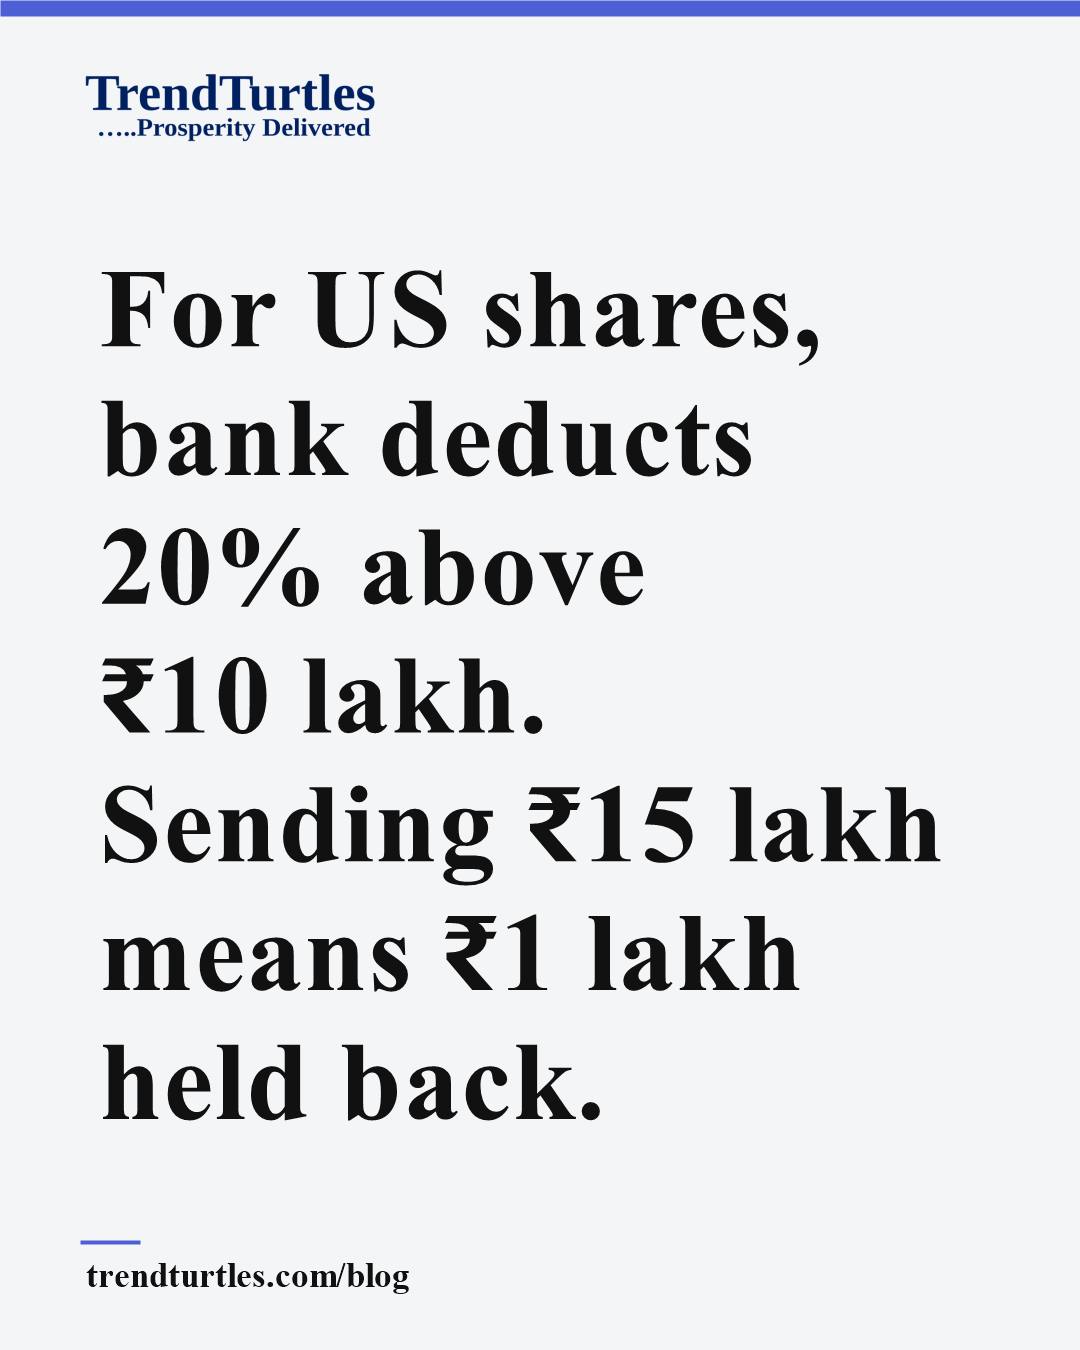
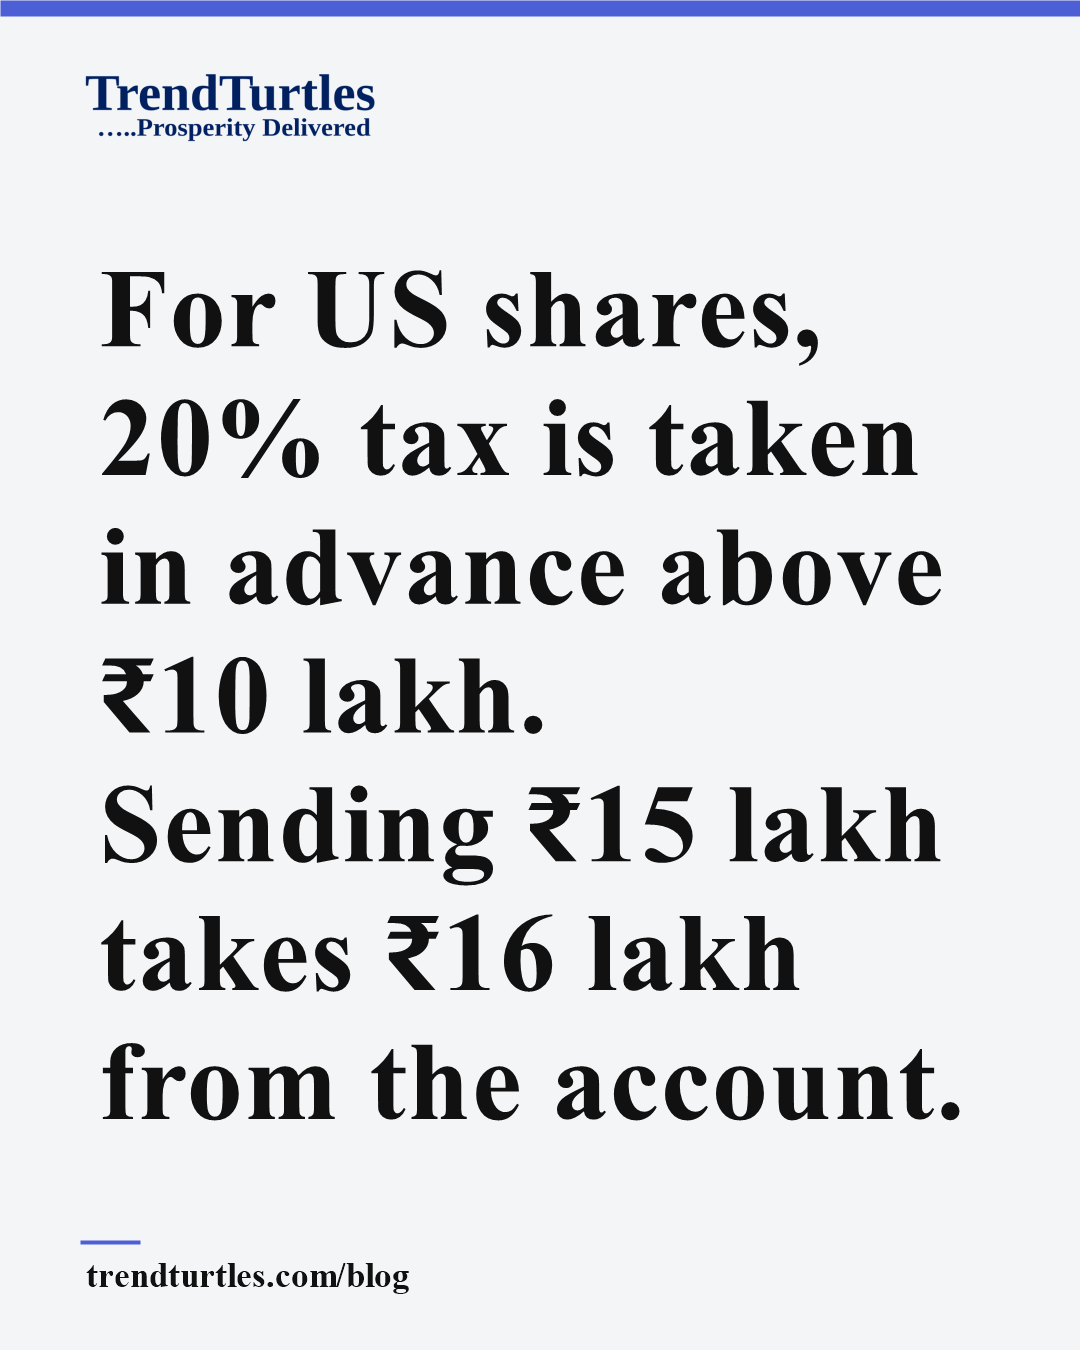
Nasdaq post: TCS is taken on top of the money sent, bank charges extra (correction); punch post 3 picture

Changed region(s): [[0.0917, 0.28, 0.8861, 0.4667], [0.0917, 0.7778, 0.8861, 0.84], [0.0917, 0.6533, 0.5194, 0.7467]]

diff --git a/blog/invest-in-nasdaq-from-india.html b/blog/invest-in-nasdaq-from-india.html
@@ -33,7 +33,7 @@
     "description": "How to invest in Nasdaq from India: a fund, an ETF or US shares through LRS. On 9 November, the Nasdaq 100 ETF cost 16.6% more than its value. Compare all 3.",
     "mainEntityOfPage": "https://trendturtles.com/blog/invest-in-nasdaq-from-india.html",
     "datePublished": "2026-11-10",
-    "dateModified": "2026-11-12",
+    "dateModified": "2026-11-14",
     "inLanguage": "en-IN",
     "image": "https://trendturtles.com/assets/images/invest-in-nasdaq-from-india-share.png",
     "author": {
@@ -87,7 +87,7 @@
     "mainEntity": [
         {"@type": "Question", "name": "Can I start a SIP in a Nasdaq fund from India?", "acceptedAnswer": {"@type": "Answer", "text": "Only if the fund is taking new SIPs that month. A fund can stop new SIPs when its limit for investing abroad is full (see section 2)."}},
         {"@type": "Question", "name": "Is the Nasdaq 100 ETF the same as buying Nasdaq shares?", "acceptedAnswer": {"@type": "Answer", "text": "It holds the same shares, but its price on NSE can be above the value of those shares (see section 3)."}},
-        {"@type": "Question", "name": "Is the 20% TCS on LRS a loss?", "acceptedAnswer": {"@type": "Answer", "text": "No. It counts as tax you have already paid (see section 4). For example, if you send ₹15 lakh in a year, the bank keeps 20% of the ₹5 lakh above ₹10 lakh, or ₹1 lakh. When you file your income tax return, that ₹1 lakh reduces the income tax you pay."}},
+        {"@type": "Question", "name": "Is the 20% TCS on LRS a loss?", "acceptedAnswer": {"@type": "Answer", "text": "No. It counts as tax you have already paid (see section 4). For example, if you send ₹15 lakh in a year, the bank also takes 20% of the ₹5 lakh above ₹10 lakh, or ₹1 lakh, from your account. So ₹16 lakh leaves your account, and bank charges are extra. When you file your income tax return, that ₹1 lakh reduces the income tax you pay."}},
         {"@type": "Question", "name": "How is my gain taxed if I buy US shares through LRS?", "acceptedAnswer": {"@type": "Answer", "text": "If you hold them for more than 24 months, the gain is taxed at 12.5%. If you sell earlier, the gain is added to your income and taxed like the rest of it."}}
     ]
 }
@@ -164,7 +164,7 @@
 
     <h2 id="lrs">4. Buying US Shares Yourself Through LRS</h2>
     <p>Buy in the US yourself, and you pay the US market price, with no Indian fund limit. But two rules come with it.</p>
-    <p>First, TCS. TCS means "tax collected at source": your bank keeps part of the money you send. For investing abroad, the bank Standard Chartered says it is <a href="https://www.sc.com/in/important-information/lrs-amendment-in-tcs/" target="_blank" rel="noopener noreferrer">20% of the amount above ₹10 lakh</a> in a financial year. This is not an extra cost. The law counts it as <a href="https://egazette.gov.in/WriteReadData/2025/265620.pdf" target="_blank" rel="noopener noreferrer">tax already paid</a>. It reduces the income tax you pay.</p>
+    <p>First, TCS. TCS means "tax collected at source": when you send money abroad, your bank takes an extra amount from your account as tax. For investing abroad, the bank Standard Chartered says it is <a href="https://www.sc.com/in/important-information/lrs-amendment-in-tcs/" target="_blank" rel="noopener noreferrer">20% of the amount above ₹10 lakh</a> in a financial year. This is not a loss. The law counts it as <a href="https://egazette.gov.in/WriteReadData/2025/265620.pdf" target="_blank" rel="noopener noreferrer">tax already paid</a>. It reduces the income tax you pay.</p>
     <p>Second, reporting. Every year, your income tax return must list your shares abroad in a part called <a href="https://www.pib.gov.in/PressReleasePage.aspx?PRID=2073820" target="_blank" rel="noopener noreferrer">Schedule FA</a>. If you miss it, the penalty can be <a href="https://www.indiabudget.gov.in/budget2024-25/doc/memo.pdf" target="_blank" rel="noopener noreferrer">₹10 lakh</a>.</p>
     <p>In 2023, a tax court in Mumbai, the court that hears tax disputes, agreed with the <a href="https://itatonline.org/digest/wp-content/uploads/2024/12/Rohit-Krishna-Black-Money.pdf" target="_blank" rel="noopener noreferrer">penalty</a>. The person had sent money through LRS into a fund, but did not list it in Schedule FA. A tax website reports the penalty was <a href="https://www.taxontips.com/penalty-of-rs-10-lakh-per-year-for-not-disclosing-foreign-asset-under-schedule-fa-in-itr-read-order/" target="_blank" rel="noopener noreferrer">₹10 lakh for each of three years</a>.</p>
     <p>How do the 3 ways compare side by side?</p>
@@ -212,7 +212,7 @@
         </div>
         <div class="faq-item">
             <h3 id="faq-tcs">Is the 20% TCS on LRS a loss?</h3>
-            <p>No. It counts as tax you have already paid (see <a href="#lrs">section 4</a>). For example, if you send ₹15 lakh in a year, the bank keeps 20% of the ₹5 lakh above ₹10 lakh, or ₹1 lakh. When you file your income tax return, that ₹1 lakh reduces the income tax you pay.</p>
+            <p>No. It counts as tax you have already paid (see <a href="#lrs">section 4</a>). For example, if you send ₹15 lakh in a year, the bank also takes 20% of the ₹5 lakh above ₹10 lakh, or ₹1 lakh, from your account. So ₹16 lakh leaves your account, and <a href="https://www.sc.com/in/important-information/lrs-amendment-in-tcs/" target="_blank" rel="noopener noreferrer">bank charges are extra</a>. When you file your income tax return, that ₹1 lakh reduces the income tax you pay.</p>
         </div>
         <div class="faq-item">
             <h3 id="faq-tax">How is my gain taxed if I buy US shares through LRS?</h3>
